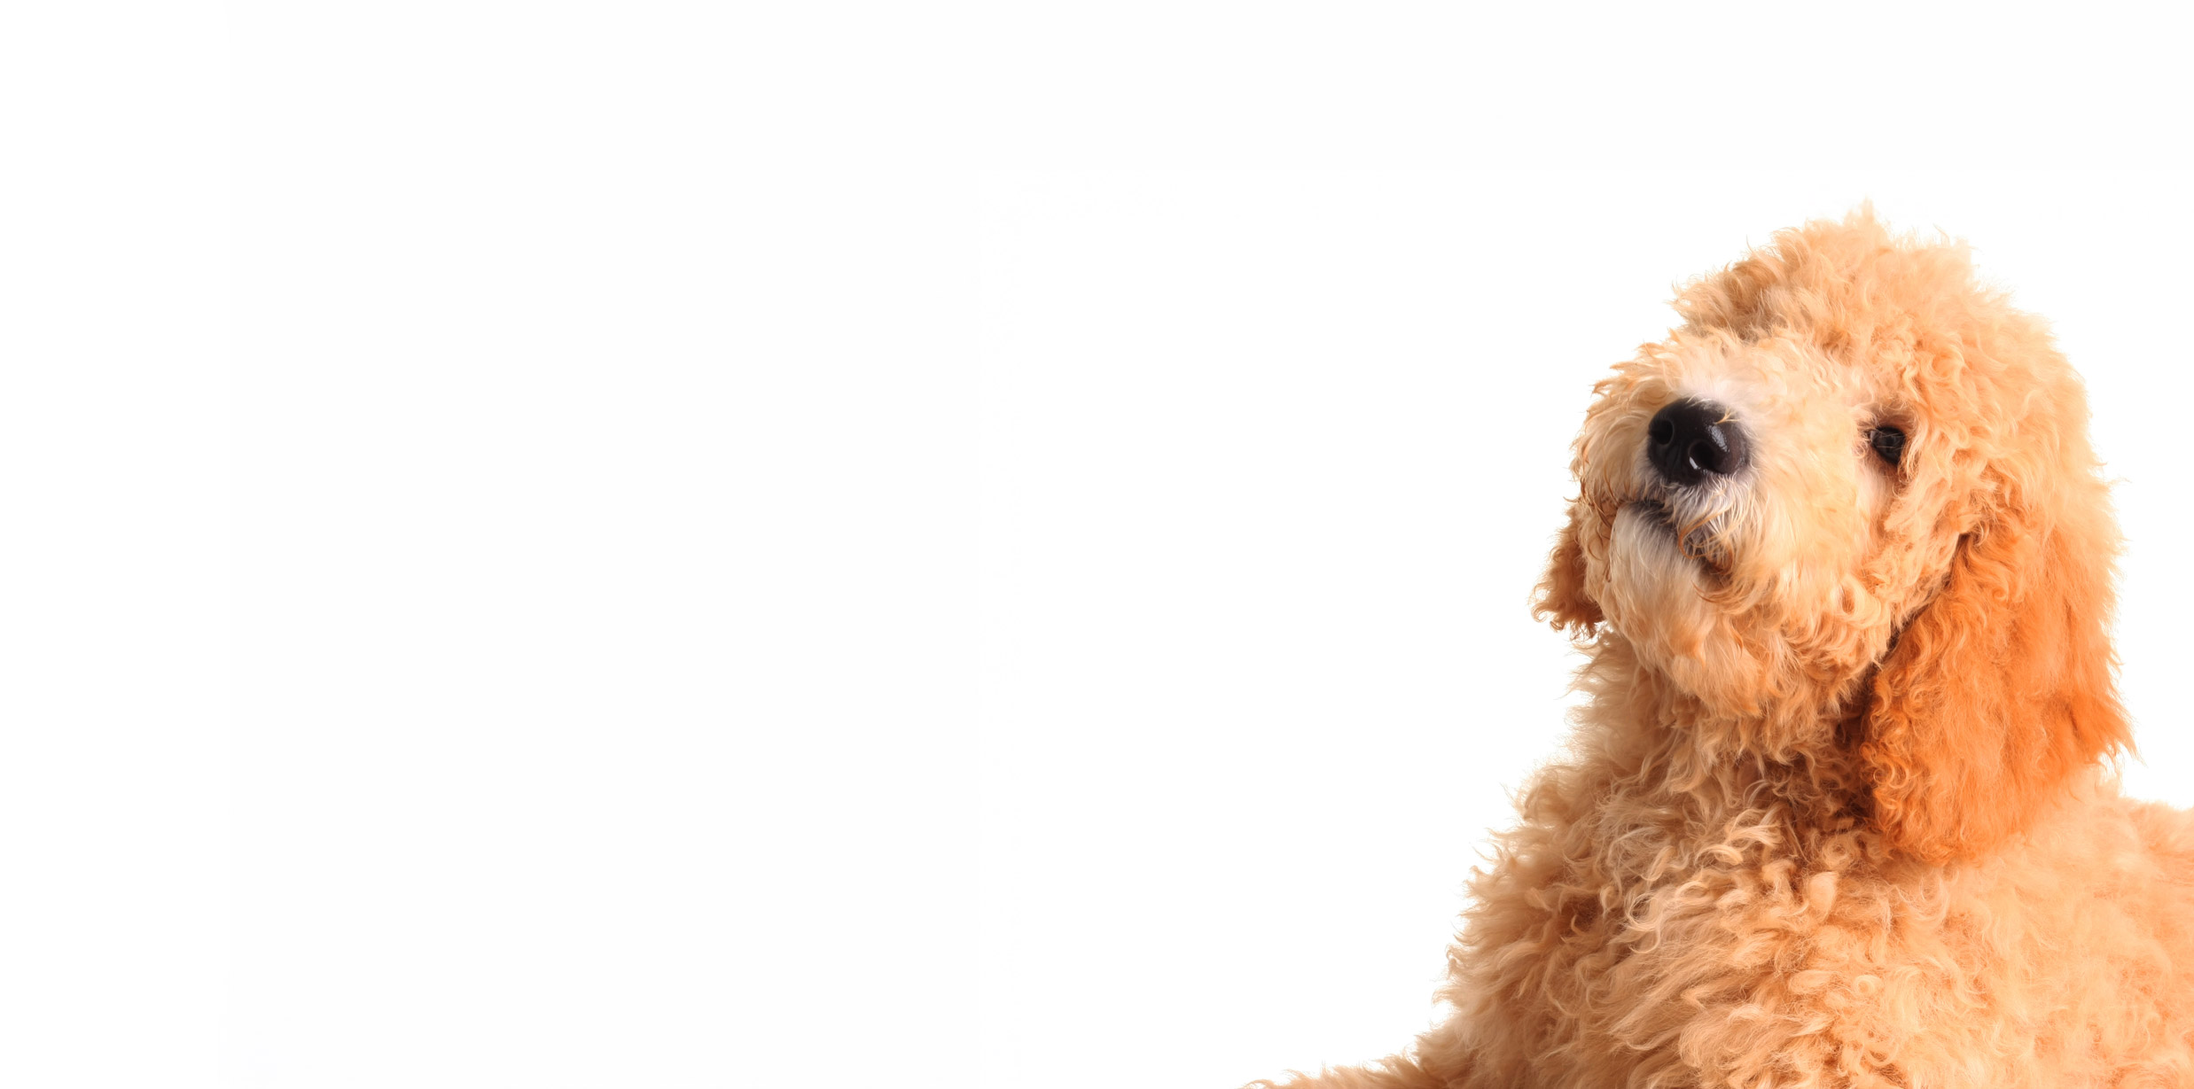
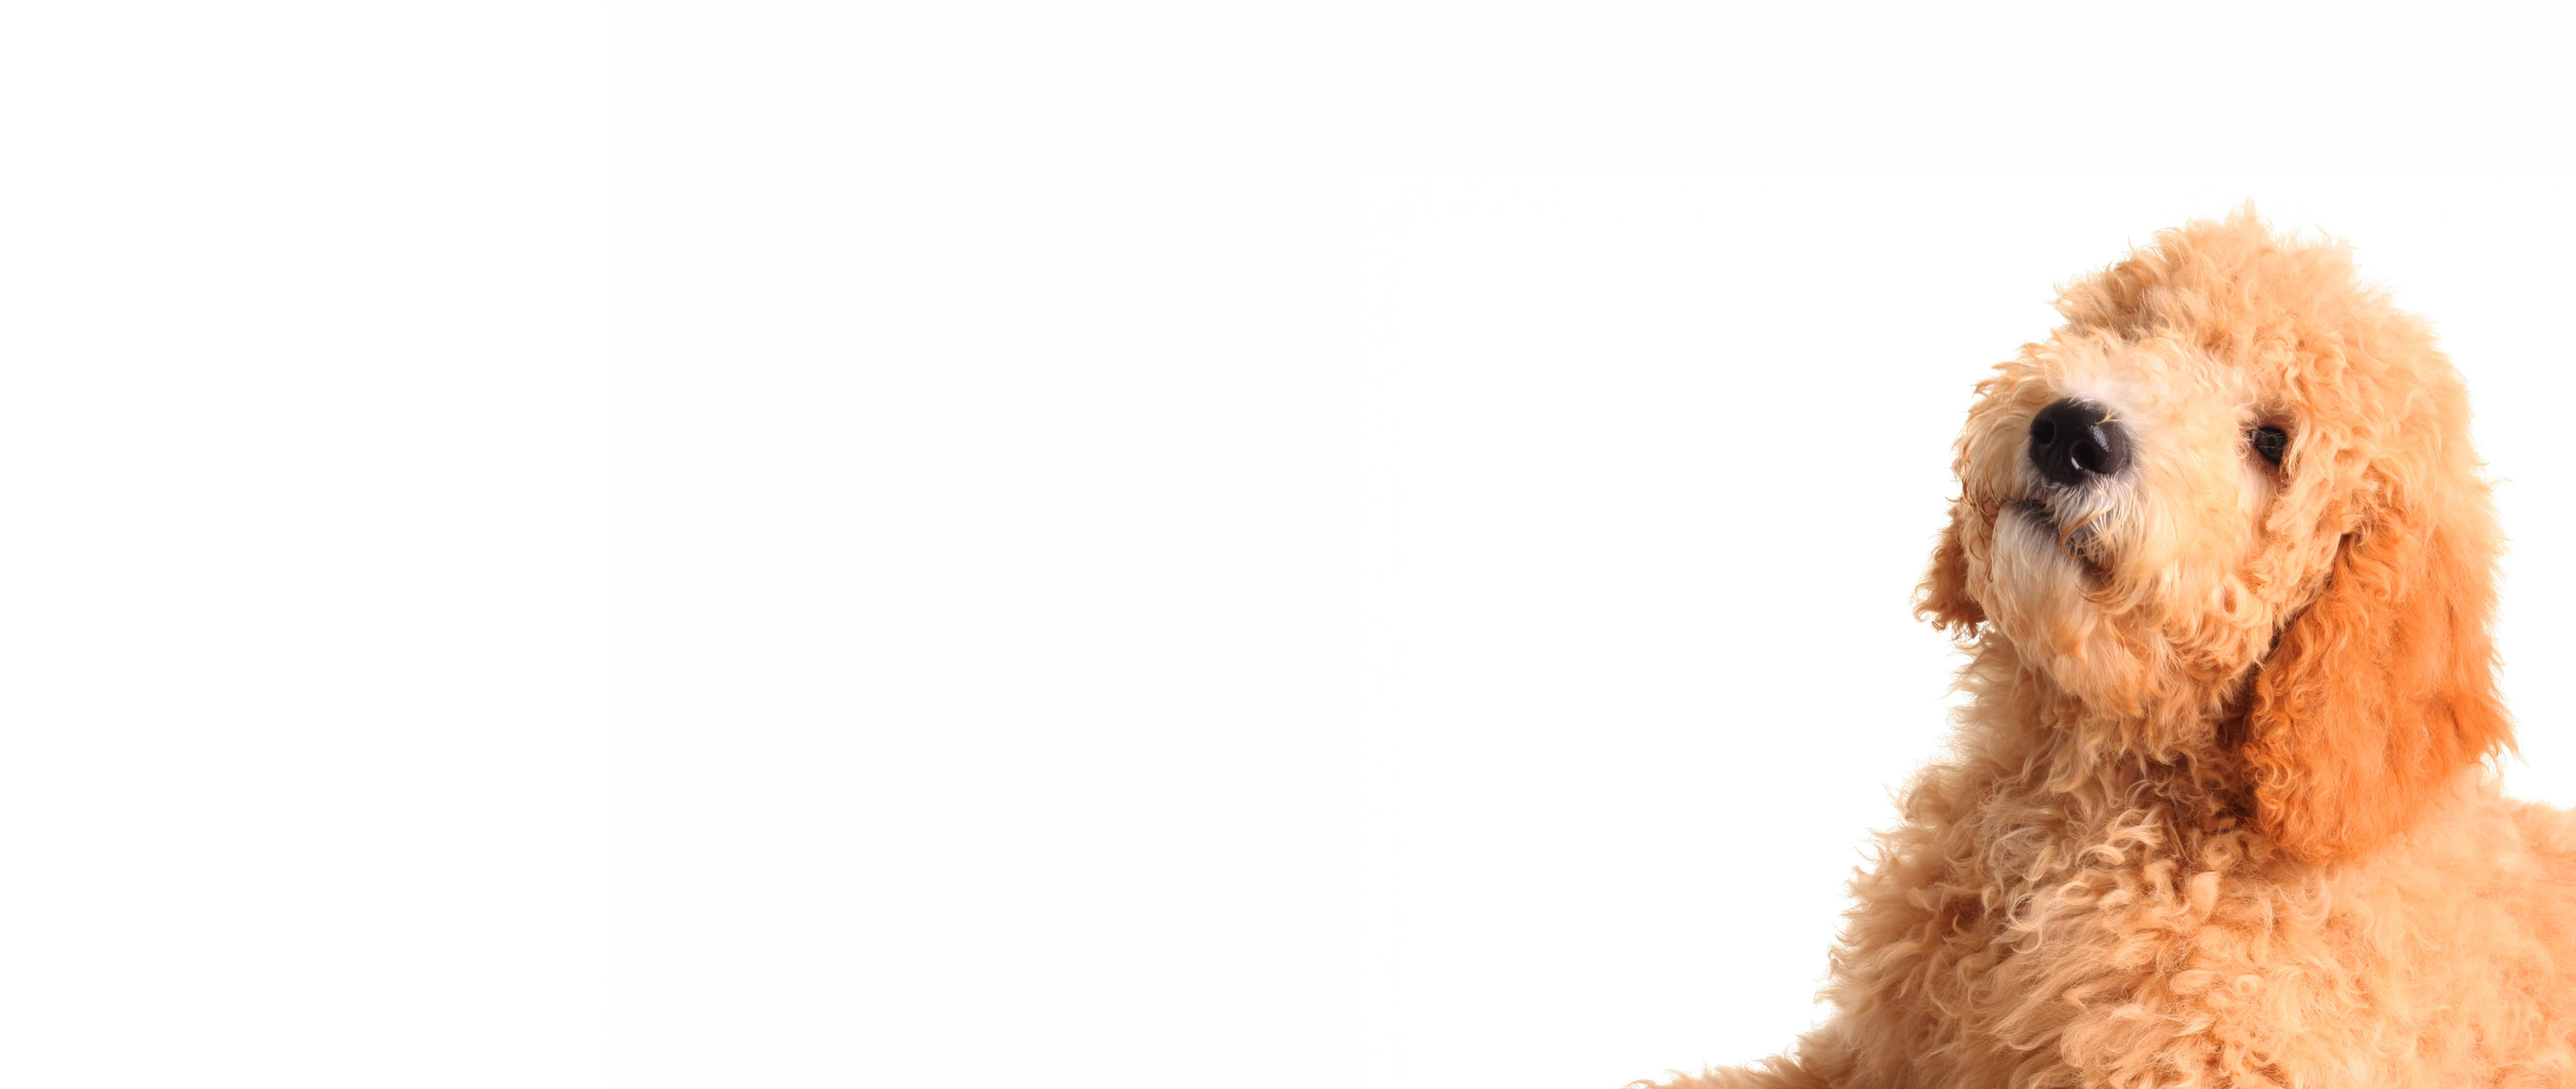
Update hero image and accordion width

Changed region(s): [[0.56, 0.1855, 0.9956, 1.0]]

diff --git a/src/app/(main)/faq/page.tsx b/src/app/(main)/faq/page.tsx
@@ -5,6 +5,7 @@ import AccordionGroup from '@/components/AccordionGroup';
 import CTASection from '@/components/CTASection';
 import { faqSections } from '@/app/(main)/faq/faq-data';
 import { faqSchema } from '@/app/(main)/faq/faq-schema';
+import styles from './FaqPage.module.scss';
 
 export const metadata: Metadata = {
   title: 'FAQ | Paw Parent Academy',
@@ -18,7 +19,7 @@ export default function FAQPage() {
       <FAQHero />
 
       {faqSections.map((section) => {
-        const backgroundClass = section.variant === 'light' ? 'bg-light' : '';
+        const backgroundClass = section.variant === 'light' ? styles.sectionLight : '';
 
         return (
           <div key={section.id}>
@@ -27,10 +28,10 @@ export default function FAQPage() {
               description={section.description}
               variant={section.variant}
             />
-            <section className={`${backgroundClass} py-4 py-lg-5`}>
+            <section className={`${backgroundClass} pt-2 pb-4 pb-lg-5`}>
               <div className="container">
                 <div className="row justify-content-center">
-                  <div className="col-12 col-lg-10">
+                  <div className="col-12 col-lg-8">
                     <AccordionGroup items={section.items} />
                   </div>
                 </div>

diff --git a/src/app/(main)/faq/components/FAQSectionIntro/index.tsx b/src/app/(main)/faq/components/FAQSectionIntro/index.tsx
@@ -15,9 +15,9 @@ export default function FAQSectionIntro({ title, description, variant = 'default
       <div className="container">
         <div className="row justify-content-center">
           <div className="col-12 col-lg-8">
-            <h2 className="fw-bold mb-3" id={headingId}>
+            <h3 className="fw-bold mb-2" id={headingId}>
               {title}
-            </h2>
+            </h3>
             {description && <p className="mb-0 text-muted">{description}</p>}
           </div>
         </div>

diff --git a/src/app/(main)/faq/components/FAQHero/styles.module.scss b/src/app/(main)/faq/components/FAQHero/styles.module.scss
@@ -5,11 +5,14 @@
   background-attachment: fixed;
   padding: 4.5rem 0 4rem;
   overflow: hidden;
+  display: flex;
+  align-items: center;
 }
 
 .hero :global(.container) {
   position: relative;
   z-index: 1;
+  width: 100%;
   padding-left: 4rem;
   padding-right: 4rem;
 }

diff --git a/src/app/(main)/faq/FaqPage.module.scss b/src/app/(main)/faq/FaqPage.module.scss
@@ -1,0 +1,3 @@
+.sectionLight {
+  background-color: #f5f5f5;
+}
